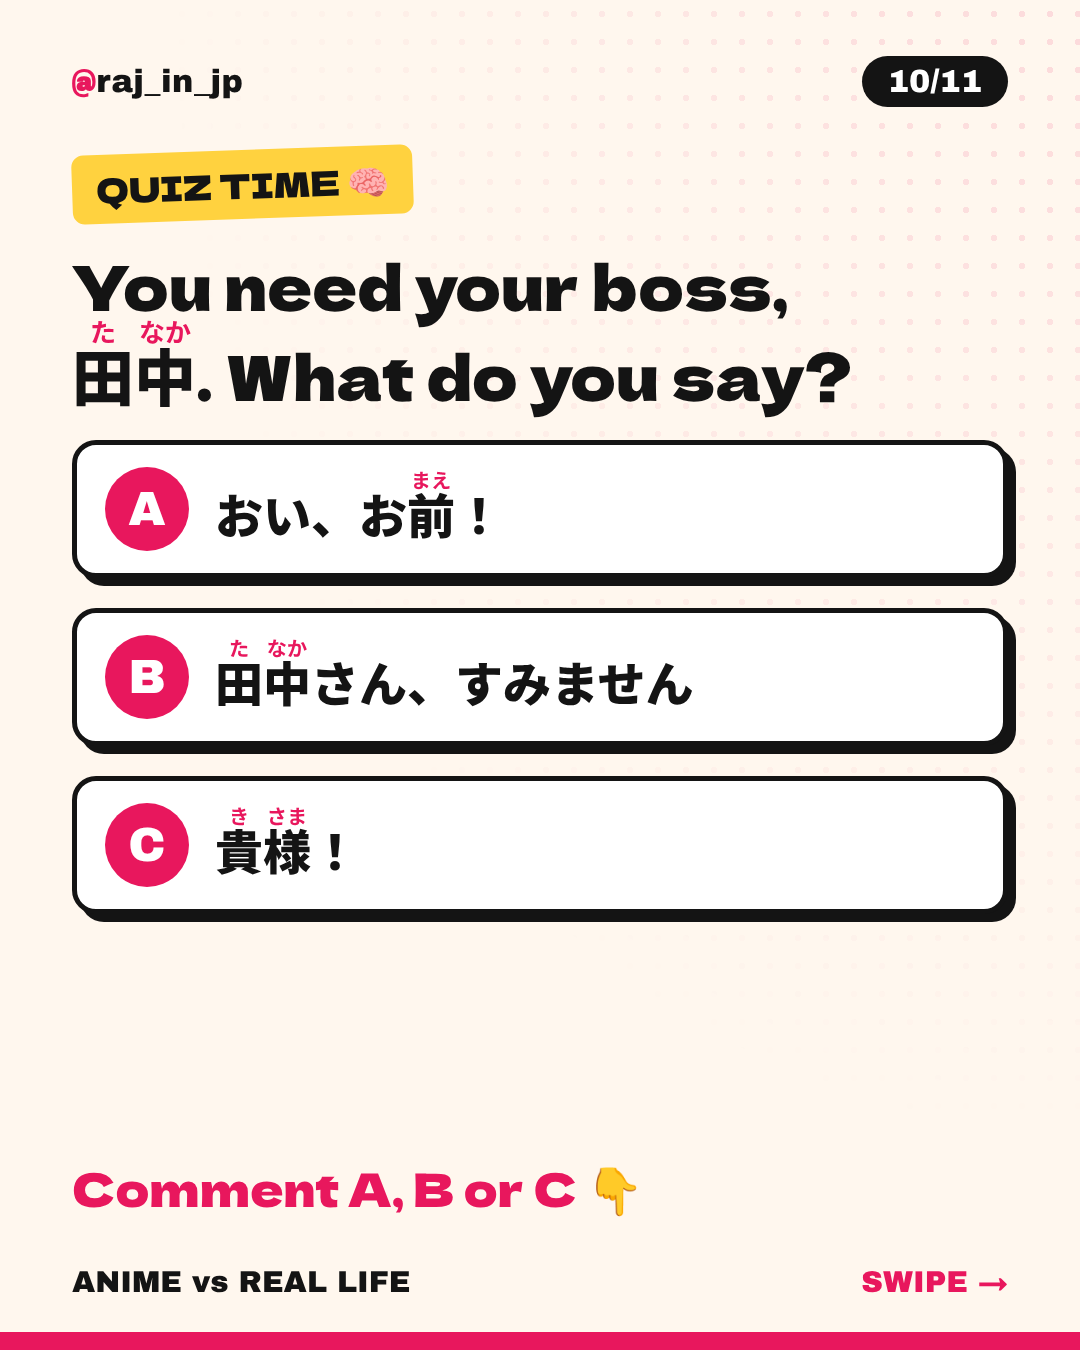
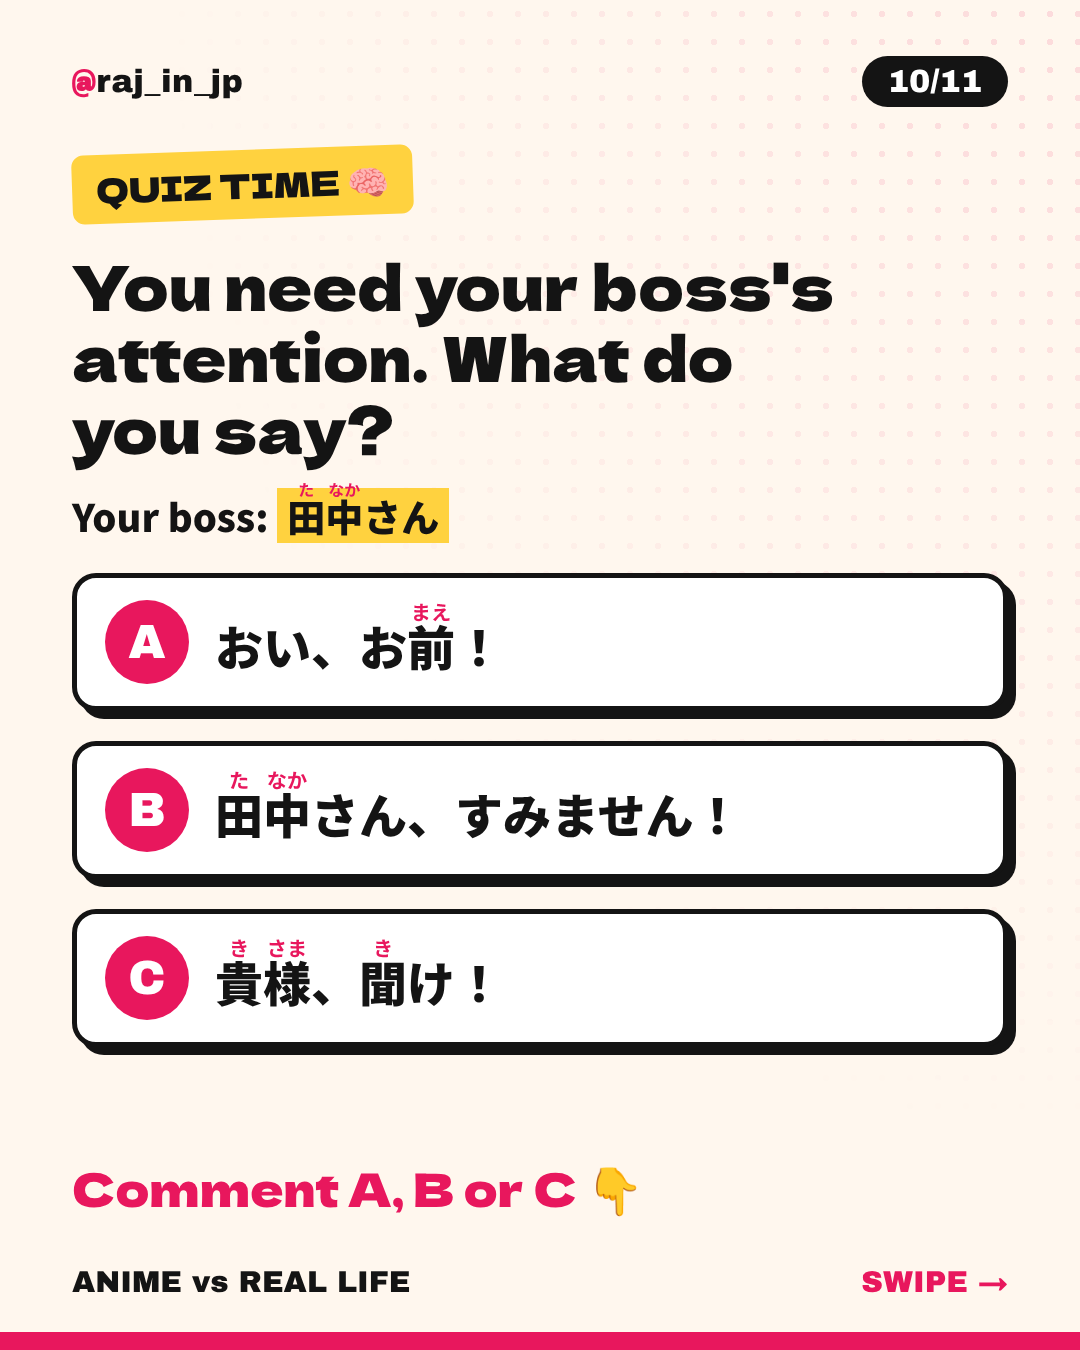
Clearer quiz wording: you need your boss's attention
Claude-Session: https://claude.ai/code/session_01EaoD2uAGWmKnrxvvdunxK2

Changed region(s): [[0.0611, 0.1867, 0.9472, 0.8089]]

diff --git a/instagram/carousels/anime-japanese/build.py b/instagram/carousels/anime-japanese/build.py
@@ -213,14 +213,15 @@ slides.append(frame(9, f"""<div class="c">
 # 10 QUIZ
 q = img("s10.png")
 q_html = f'<img src="{q}" style="width:100%;height:210px;object-fit:cover;border-radius:24px;border:6px solid #141414;margin-top:22px">' if q else ""
-opts = [("A", "おい、お前！"), ("B", "田中さん、すみません"), ("C", "貴様！")]
+opts = [("A", "おい、お前！"), ("B", "田中さん、すみません！"), ("C", "貴様、聞け！")]
 opts_html = "".join(
     f'<div style="display:flex;align-items:center;gap:26px;margin-top:{22 if q else 30}px;background:#fff;border:5px solid #141414;border-radius:24px;padding:{12 if q else 22}px 28px;box-shadow:8px 8px 0 #141414">'
     f'<div style="flex:none;width:84px;height:84px;border-radius:50%;background:var(--pink);color:#fff;font-family:Archivo;font-size:48px;display:flex;align-items:center;justify-content:center">{k}</div>'
     f'<div style="font-weight:900;font-size:48px;line-height:1.5">{t}</div></div>' for k, t in opts)
 slides.append(frame(10, f"""<div class="c">
 <div class="tag" style="background:var(--yellow);color:var(--ink)">QUIZ TIME 🧠</div>
-<div style="font-family:Dela;font-size:62px;line-height:1.15;margin-top:30px">You need your boss,<br><span class='jp'>田中</span>. What do you say?</div>
+<div style="font-family:Dela;font-size:62px;line-height:1.15;margin-top:30px">You need your boss's<br>attention. What do<br>you say?</div>
+<div style="font-weight:900;font-size:38px;margin-top:18px">Your boss: <span style="background:var(--yellow);padding:0 10px">田中さん</span></div>
 {q_html}
 {opts_html}
 <div style="margin-top:auto;font-family:Dela;font-size:46px;color:var(--pink)">Comment A, B or C 👇</div>
@@ -250,6 +251,7 @@ FURI = [
     ("美技", "<ruby>美<rt>び</rt>技<rt>ぎ</rt></ruby>"),
     ("酔いな", "<ruby>酔<rt>よ</rt></ruby>いな"),
     ("ボク様", "ボク<ruby>様<rt>さま</rt></ruby>"),
+    ("聞け", "<ruby>聞<rt>き</rt></ruby>け"),
     ("関係", "<ruby>関<rt>かん</rt>係<rt>けい</rt></ruby>"),
     ("無益", "<ruby>無<rt>む</rt>益<rt>えき</rt></ruby>"),
     ("私", "<ruby>私<rt>わたし</rt></ruby>"),
